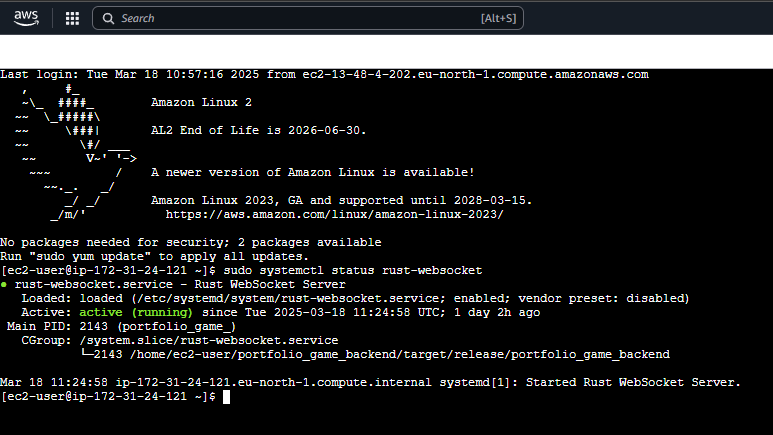
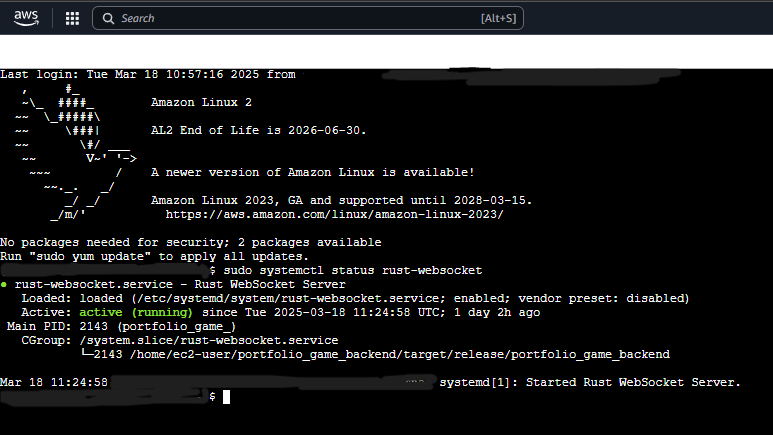
Author: Jadid Alam | Date: 19/03/2025 | Version: 3.1
- fixed a but where guesses were case sensitive

Changed region(s): [[0.0, 0.8368, 0.5589, 0.9563], [0.3726, 0.1494, 0.9004, 0.2092], [0.0, 0.5977, 0.2794, 0.6575]]

diff --git a/src/Scramble.js b/src/Scramble.js
@@ -172,7 +172,7 @@ const Scramble  = ({darkMode, setDarkMode}) => {
             console.log("WebSocket Connection Closed");
             return;
         }
-        socketRef.current.send(d);
+        socketRef.current.send(d.toLocaleLowerCase());
     };
 
     const handleKeyDown = (e) => {
@@ -497,7 +497,7 @@ const Scramble  = ({darkMode, setDarkMode}) => {
                                 </div>
                             ) : gameState.current === 2 ? (
                                 <div className={`h-[95%] px-[1%]`}>
-                                    <motion.p animate={timerEndAnim} className={`text-center text-mnormal lg:text-3xl`}>Time Remaining: {seconds}</motion.p>
+                                    <motion.p animate={timerEndAnim} className={`text-center text-mnormal lg:text-3xl lg:pb-6`}>Time Remaining: {seconds}</motion.p>
                                     <div className={`grid grid-cols-[15%_70%_15%] h-[95%]`}>
                                         <div className={`text-left text-mnormal lg:text-4xl`}>
                                             <p>You</p>